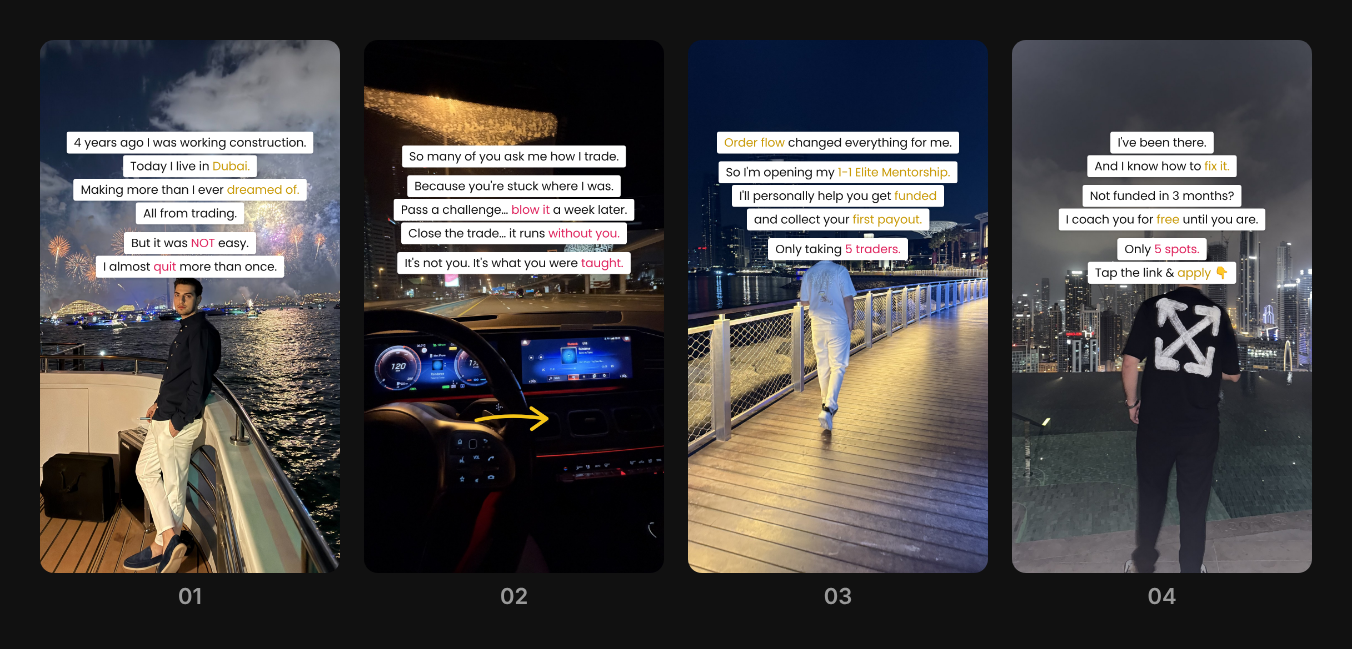
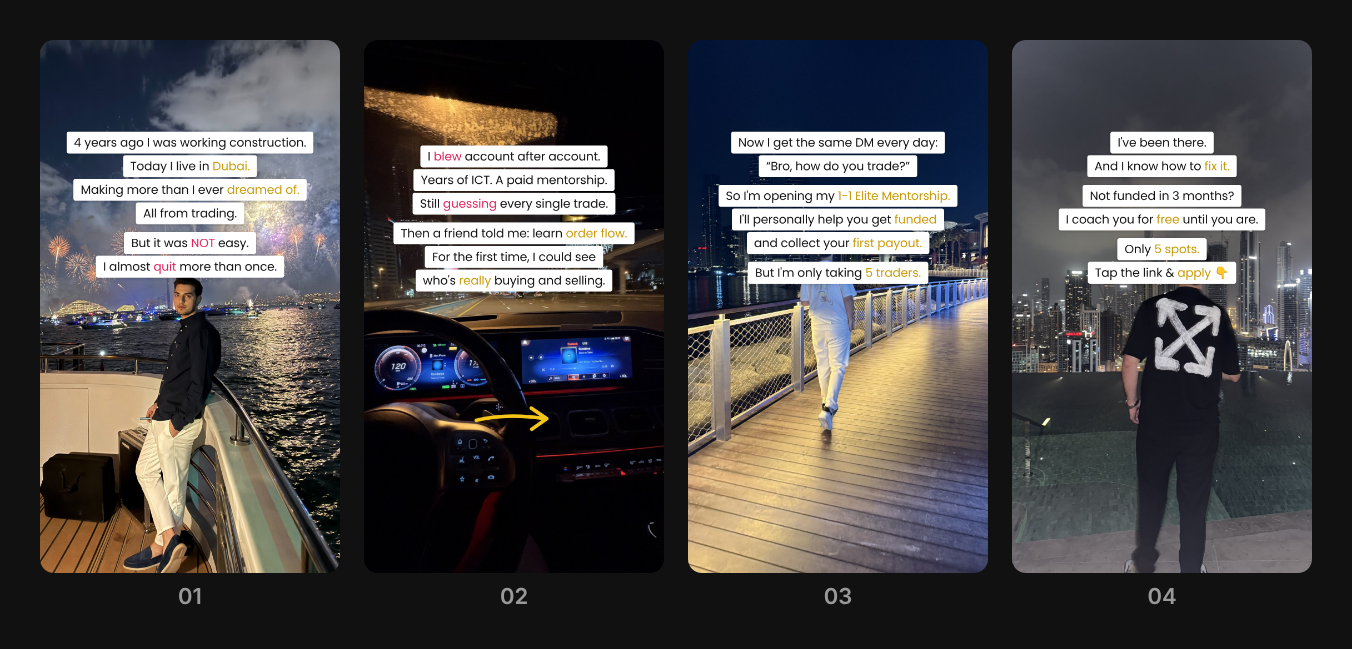
Fix story flow and colour logic in frames 02-03 of Elite launch sequence
Claude-Session: https://claude.ai/code/session_015aTEPXDLdQUfqpoP6cz2Re

Changed region(s): [[0.2796, 0.2157, 0.497, 0.4622], [0.5281, 0.1849, 0.7145, 0.4622]]

diff --git a/sequences/2026-11-23_hard_elite-mentorship-launch/frames/02.html b/sequences/2026-11-23_hard_elite-mentorship-launch/frames/02.html
@@ -1,10 +1,11 @@
 <!doctype html><html><head><meta charset="utf-8"><link rel="stylesheet" href="style.css"></head><body>
 <div class="bg" style="background-image:url(../assets/02-car-night.jpg);"></div>
 <div class="stack" style="top:380px">
-<p>So many of you ask me how I trade.</p>
-<p class="gap">Because you&#39;re stuck where I was.</p>
-<p>Pass a challenge&hellip; <span class="r">blow it</span> a week later.</p>
-<p>Close the trade&hellip; it runs <span class="r">without you.</span></p>
-<p class="gap">It&#39;s not you. It&#39;s what you were <span class="r">taught.</span></p>
+<p>I <span class="r">blew</span> account after account.</p>
+<p>Years of ICT. A paid mentorship.</p>
+<p>Still <span class="r">guessing</span> every single trade.</p>
+<p class="gap">Then a friend told me: learn <span class="g">order flow.</span></p>
+<p>For the first time, I could see</p>
+<p>who&#39;s <span class="g">really</span> buying and selling.</p>
 </div>
 <svg class="arrow" style="left:390px;top:1300px" viewBox="0 0 300 120"><path d="M14 70 C 90 52, 170 50, 262 64" fill="none" stroke="#f5c518" stroke-width="13" stroke-linecap="round"/><path d="M212 26 L 268 64 L 214 102" fill="none" stroke="#f5c518" stroke-width="13" stroke-linecap="round" stroke-linejoin="round"/></svg></body></html>

diff --git a/sequences/2026-11-23_hard_elite-mentorship-launch/frames/03.html b/sequences/2026-11-23_hard_elite-mentorship-launch/frames/03.html
@@ -1,10 +1,11 @@
 <!doctype html><html><head><meta charset="utf-8"><link rel="stylesheet" href="style.css"></head><body>
 <div class="bg" style="background-image:url(../assets/03-boardwalk.jpg);"></div>
 <div class="stack" style="top:330px">
-<p><span class="g">Order flow</span> changed everything for me.</p>
+<p>Now I get the same DM every day:</p>
+<p>&ldquo;Bro, how do you trade?&rdquo;</p>
 <p class="gap">So I&#39;m opening my <span class="g">1-1 Elite Mentorship.</span></p>
 <p>I&#39;ll personally help you get <span class="g">funded</span></p>
 <p>and collect your <span class="g">first payout.</span></p>
-<p class="gap">Only taking <span class="r">5 traders.</span></p>
+<p class="gap">But I&#39;m only taking <span class="g">5 traders.</span></p>
 </div>
 </body></html>

diff --git a/sequences/2026-11-23_hard_elite-mentorship-launch/frames/04.html b/sequences/2026-11-23_hard_elite-mentorship-launch/frames/04.html
@@ -5,7 +5,7 @@
 <p>And I know how to <span class="g">fix it.</span></p>
 <p class="gap">Not funded in 3 months?</p>
 <p>I coach you for <span class="g">free</span> until you are.</p>
-<p class="gap">Only <span class="r">5 spots.</span></p>
+<p class="gap">Only <span class="g">5 spots.</span></p>
 <p>Tap the link &amp; <span class="g">apply</span> 👇</p>
 </div>
 </body></html>

diff --git a/sequences/2026-11-23_hard_elite-mentorship-launch/sequence.md b/sequences/2026-11-23_hard_elite-mentorship-launch/sequence.md
@@ -12,8 +12,8 @@
 
 ## Arc (v2, tighter: 5–6 boxes per frame like the reference)
 1. Flex → vulnerability: construction → Dubai, more than he dreamed of → NOT easy, almost quit
-2. "So many of you ask how I trade" → the loop you're stuck in → "it's what you were taught" (arrow)
-3. Order flow changed everything → 1-1 Elite Mentorship → personally help you get funded + first payout → 5 traders
+2. The low point (blew accounts, ICT, guessing) → a friend: learn order flow → saw who's really buying/selling (arrow)
+3. Now the same DM every day: "how do you trade?" → 1-1 Elite Mentorship → funded + first payout → only 5 traders
 4. I've been there, I know how to fix it → guarantee → 5 spots → tap the link & apply
 
 ## Frames
@@ -22,12 +22,12 @@
 - **Copy:** 4 years ago I was working construction. / Today I live in Dubai. / Making more than I ever dreamed of. / All from trading. / But it was NOT easy. / I almost quit more than once.
 - **Assets:** `assets/01-yacht-dubai.jpg` (IMG_9990)
 
-### 02: Pain
-- **Copy:** So many of you ask me how I trade. / Because you're stuck where I was. / Pass a challenge… blow it a week later. / Close the trade… it runs without you. / It's not you. It's what you were taught. (+ yellow arrow)
+### 02: Low point → turn
+- **Copy:** I blew account after account. / Years of ICT. A paid mentorship. / Still guessing every single trade. / Then a friend told me: learn order flow. / For the first time, I could see / who's really buying and selling. (+ yellow arrow)
 - **Assets:** `assets/02-car-night.jpg` (IMG_6405)
 
-### 03: Offer
-- **Copy:** Order flow changed everything for me. / So I'm opening my 1-1 Elite Mentorship. / I'll personally help you get funded / and collect your first payout. / Only taking 5 traders.
+### 03: Demand → offer
+- **Copy:** Now I get the same DM every day: / "Bro, how do you trade?" / So I'm opening my 1-1 Elite Mentorship. / I'll personally help you get funded / and collect your first payout. / But I'm only taking 5 traders.
 - **Assets:** `assets/03-boardwalk.jpg` (IMG_3780)
 
 ### 04: Hard CTA

diff --git a/brand.md b/brand.md
@@ -11,3 +11,4 @@ Offer, voice and learnings. Full source docs are in the `brand-docs` release.
 
 ## Learnings
 - 2026-11-23: Too much text per frame. Stick to ~5–6 short boxes per frame like the hard-CTA reference. Lead with the flex (Dubai, "more than I ever dreamed of", people keep asking how I trade). Don't write flat lines like "the last 2 years it's been my main income".
+- 2026-11-23: Each frame must follow from the last (story → low point → turn → demand → offer → CTA). Pink only on pain words (blew, guessing, quit, NOT); gold on reward and the offer, including '5 spots'.
